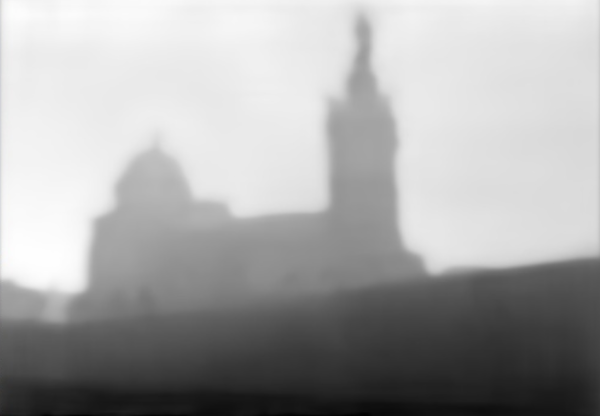
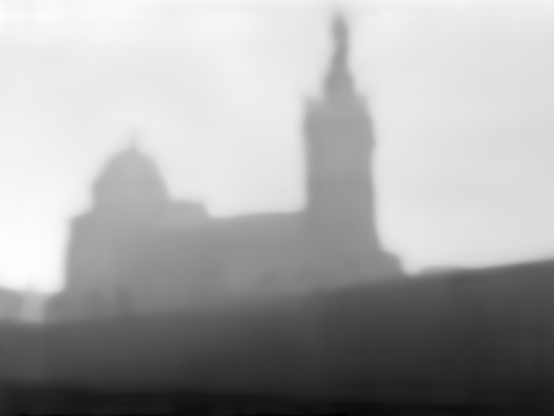
update the wall

diff --git a/index.html b/index.html
@@ -40,15 +40,23 @@ layout: page
     <div>Depth</div>
   </div>
   <div class='img-wall-element'>
-    <img src="/resources/occlusion.png" style="border: 3px gray dashed;">
-    <div>Occlusion</div>
+    <img src="/resources/factoring.png" style="border: 3px gray dashed;">
+    <div>Voxels</div>
   </div>
   <div class='img-wall-element'>
-    <img src="/resources/factoring.png" style="border: 3px gray dashed;">
-    <div>Factored</div>
+    <img src="/resources/planes.jpg" style="border: 3px gray dashed;">
+    <div>Planes</div>
   </div>
 </div>
-<p>My research focuses on 3D vision, i.e. how do we recover the 3D world from a 2D image? I'm particularly interested in recovering 3D representations from Internet videos and computer graphics. Images above demonstrate different 3D representations we extract from 2D image(s) in my research projects.</p>
+<!-- second row -->
+<!--<div class='img-wall'>
+  <div class='img-wall-element'>
+    <img src="/resources/normal.png" style="border: 3px gray dashed;">
+    <div>Surface Normal</div>
+  </div>
+</div>-->
+
+<p>My research focuses on 3D vision, i.e. how do we recover the 3D world from a 2D image? I'm particularly interested in recovering 3D representations from Internet videos and computer graphics. The image wall above demonstrates different 3D representations we extract from 2D images in my research projects.</p>
 
 <div class="teaching-blank"></div>
 
@@ -59,6 +67,29 @@ layout: page
   <li><a href="https://github.com/ve280/ve280/tree/summer-2019">VE280 Programming & Data Structures</a>, Summer 2019, Shanghai Jiao Tong University. With <a href="http://umji.sjtu.edu.cn/~wkqian/people/weikang-qian.html">Weikang Qian</a> and <a href="https://weng.fr/">Paul Weng</a>.</li>
 </ul>
 <div class="teaching-blank"></div>
+
+<!--
+<h1>Preprints</h1>
+-->
+
+<!--<div class="row homepage-row">
+  <div class="pub-img">
+    <img style="margin-top: 40px; margin-bottom: 40px;" src="/resources/associative3d.png">
+  </div>
+  <div class="pub-content">
+    <div>
+      <div class="pub-title">Planar Surface Reconstruction from Sparse Views.</div>
+      <div><a href="https://jinlinyi.github.io/">Linyi Jin</a>, <strong><u>Shengyi Qian</u></strong>, <a href="http://andrewowens.com/">Andrew Owens</a>, <a href="https://web.eecs.umich.edu/~fouhey/">David Fouhey</a>.</div>
+      <div>arXiv 2020.</div>
+      <p>We studies planar surface reconstruction of indoor scenes from two views with unknown camera pose, by jointly estimating camera pose.</p>
+      <p>
+        [<a href="https://jinlinyi.github.io/SparsePlanes/">project page</a>]
+        [<a href="https://jinlinyi.github.io/SparsePlanes/sparse_planes.pdf">paper</a>]
+        [code]
+      </p>
+    </div>
+  </div>
+</div>-->
 
 
 <h1>Publications</h1>
